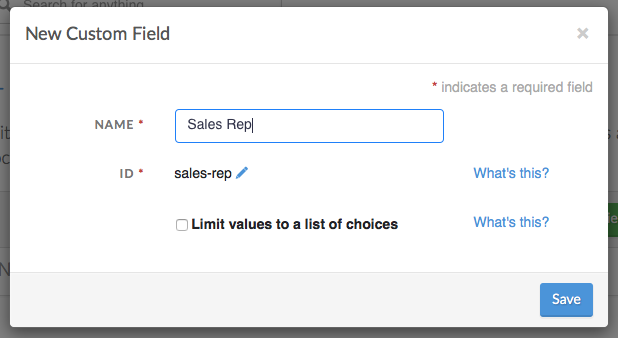
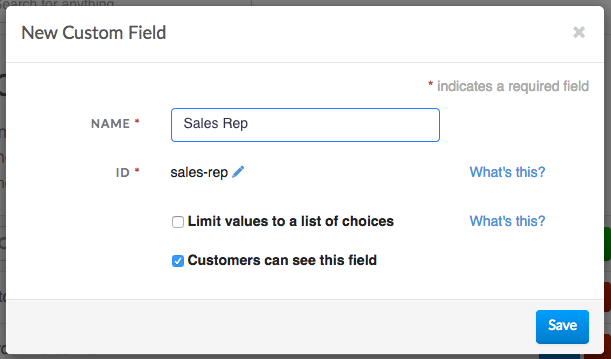
internal custom fields

diff --git a/guides/custom-fields.md b/guides/custom-fields.md
@@ -7,6 +7,7 @@ Custom fields have many uses. Here's just a few scenarios where custom fields ca
 - Keeping track of the sales representative for customer accounts
 - Segmenting receivables by department
 - Adding purchase order numbers to invoices
+- Internal tracking purposes
 
 ## Usage
 
@@ -37,13 +38,13 @@ Or when adding a new customer account:
 
 [![Custom Field New Customer Account](../img/custom-field-new-customer-account.png)](../img/custom-field-new-customer-account.png)
 
-And that's all it takes to setup and deploy custom fields. Any non-empty custom field will be displayed on the invoice presented to your customer. If the custom field is empty on the invoice then it will inherit its value from the customer account (when that has been set).
+And that's all it takes to setup and deploy custom fields. Any non-empty, customer-visible custom field will be displayed on the invoice presented to your customer. If the custom field is empty on the invoice then it will inherit its value from the customer account (when that has been set).
 
 [![Custom Field Invoice](../img/custom-field-invoice.png)](../img/custom-field-invoice.png)
 
 ### Filtering
 
-When browsing customers and invoices inside of the dashboard you can filter the results by custom field values. This setting is available within the **Filter** menu. Any results return will exactly match the filter you have built.
+When browsing customers, invoices, estimates, subscriptions, and payments inside of the dashboard you can filter the results by custom field values. This setting is available within the **Filter** menu. Any results return will exactly match the filter you have built.
 
 [![Custom Field Report Filtering](../img/custom-field-filter-sales.png)](../img/custom-field-filter-sales.png)
 
